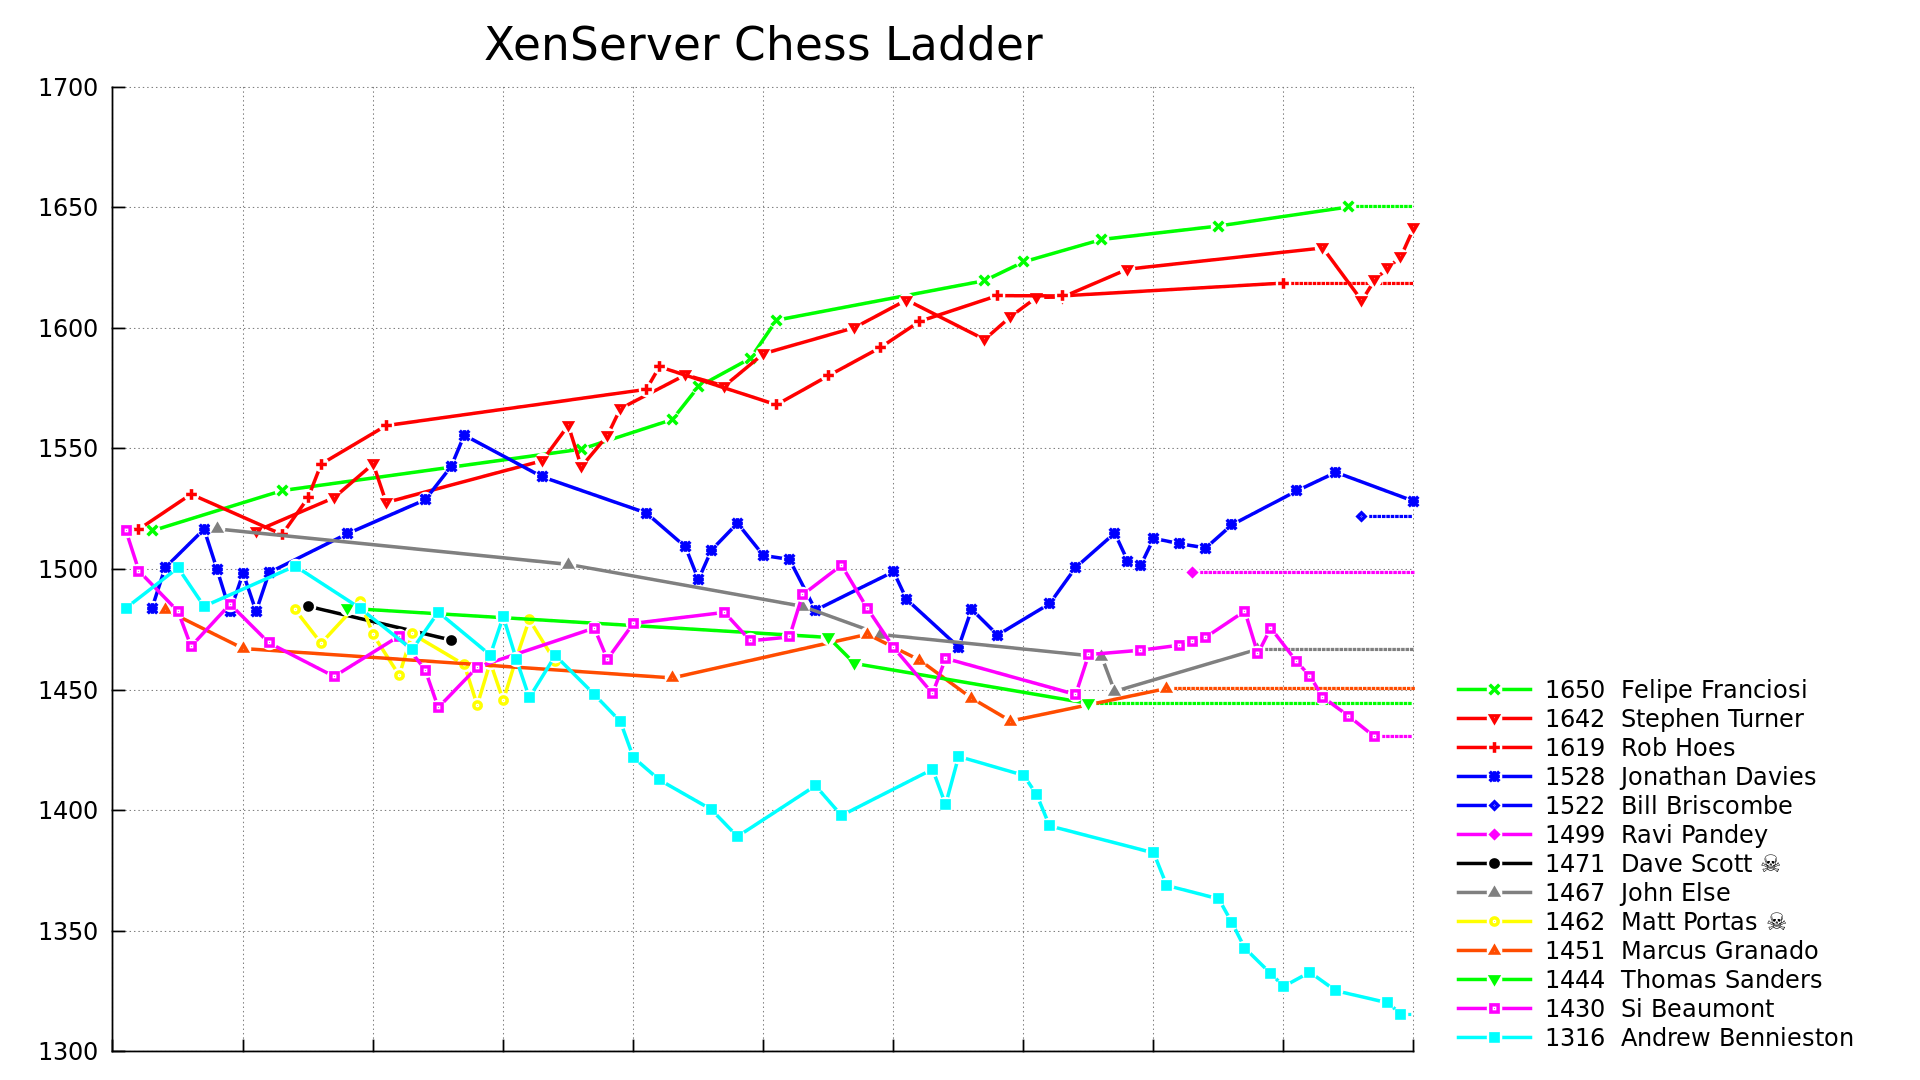
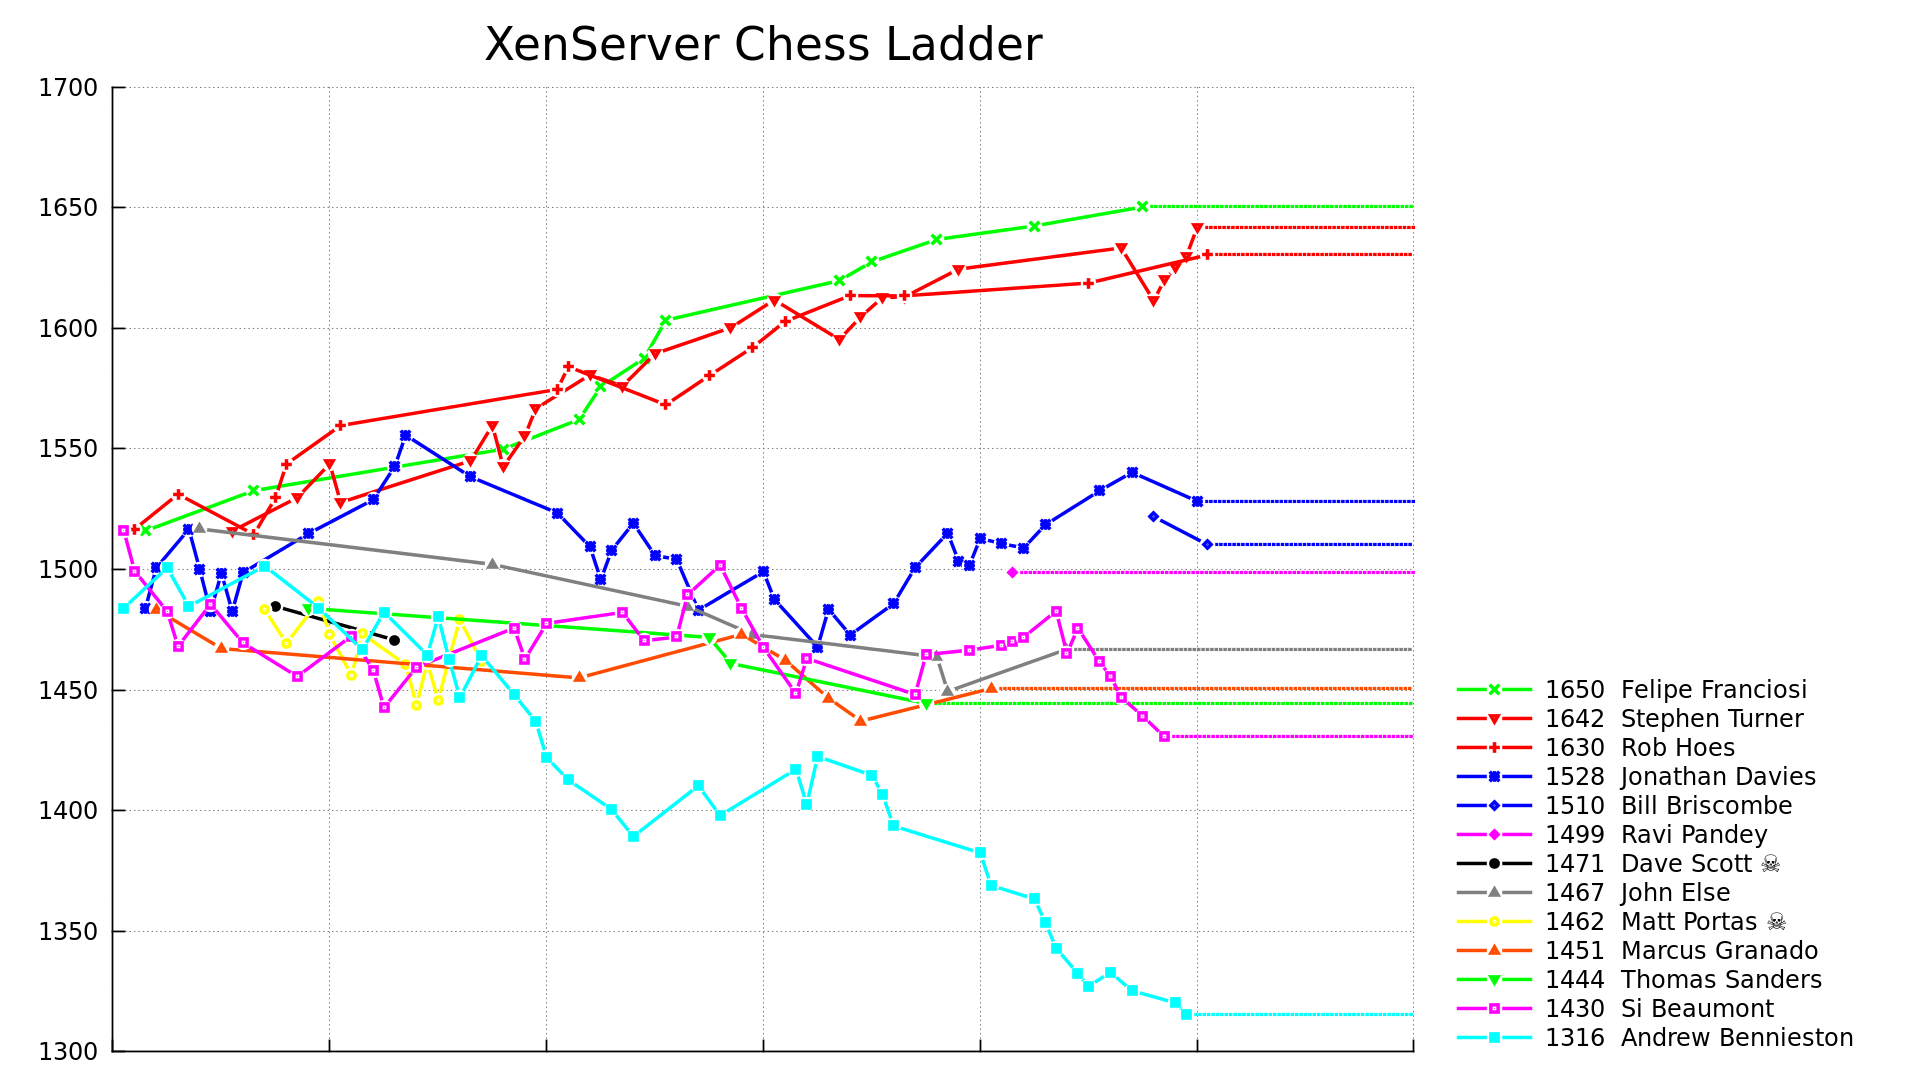
Travis build 196 pushed to gh-pages

diff --git a/index.md b/index.md
@@ -5,9 +5,9 @@ layout: default
 ### Ladder
      1.  Felipe Franciosi                   1650  (12 / 12)
      2.  Stephen Turner                     1642  (20 / 25)
-     3.  Rob Hoes                           1619  (12.5 / 15)
+     3.  Rob Hoes                           1630  (13.5 / 16)
      4.  Jonathan Davies                    1528  (21 / 38)
-     5.  Bill Briscombe                     1522  (1 / 1)
+     5.  Bill Briscombe                     1510  (1 / 2)
      6.  Ravi Pandey                        1499  (0.5 / 1)
      7.  Dave Scott                      ☠  1471  (0 / 2)
      8.  John Else                          1467  (2 / 7)
@@ -18,7 +18,7 @@ layout: default
     13.  Andrew Bennieston                  1316  (8.5 / 37)
 ### Suggested games (least played)
           Thomas Sanders - Andrew Bennieston
-          Thomas Sanders - Bill Briscombe
+             Ravi Pandey - Bill Briscombe
         Felipe Franciosi - Bill Briscombe
           Marcus Granado - John Else
          Jonathan Davies - Bill Briscombe
@@ -28,6 +28,7 @@ layout: default
           Stephen Turner - Bill Briscombe
           Thomas Sanders - Marcus Granado
 ### Games
+    2014-03-25:       Bill Briscombe - Rob Hoes                  0 - 1
     2014-03-25:       Stephen Turner - Jonathan Davies           1 - 0
     2014-03-24:    Andrew Bennieston - Stephen Turner            0 - 1
     2014-03-19:       Stephen Turner - Andrew Bennieston         1 - 0
